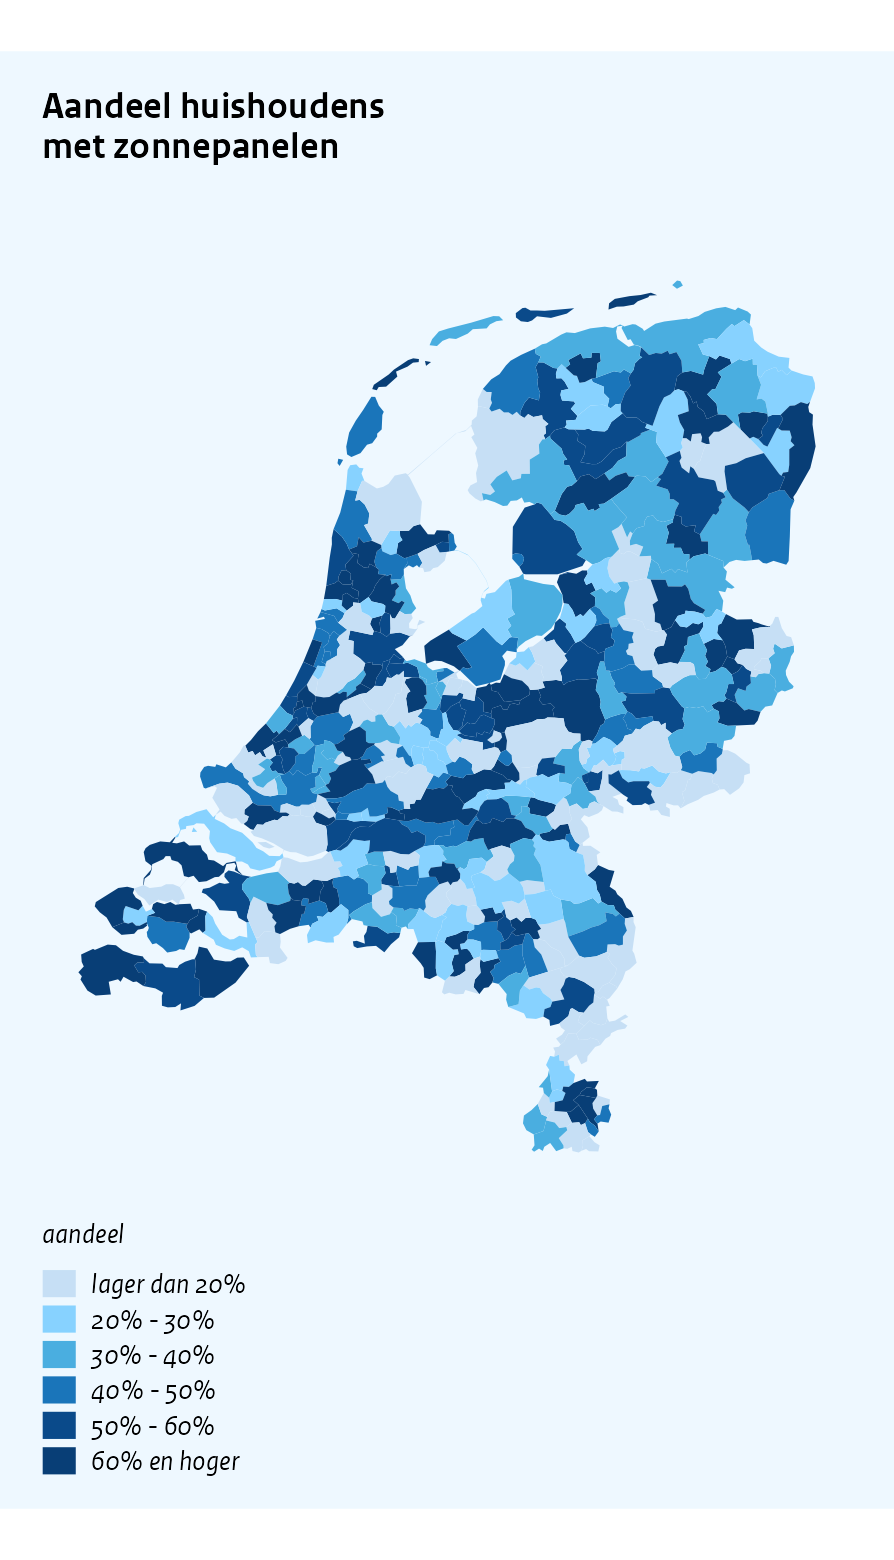
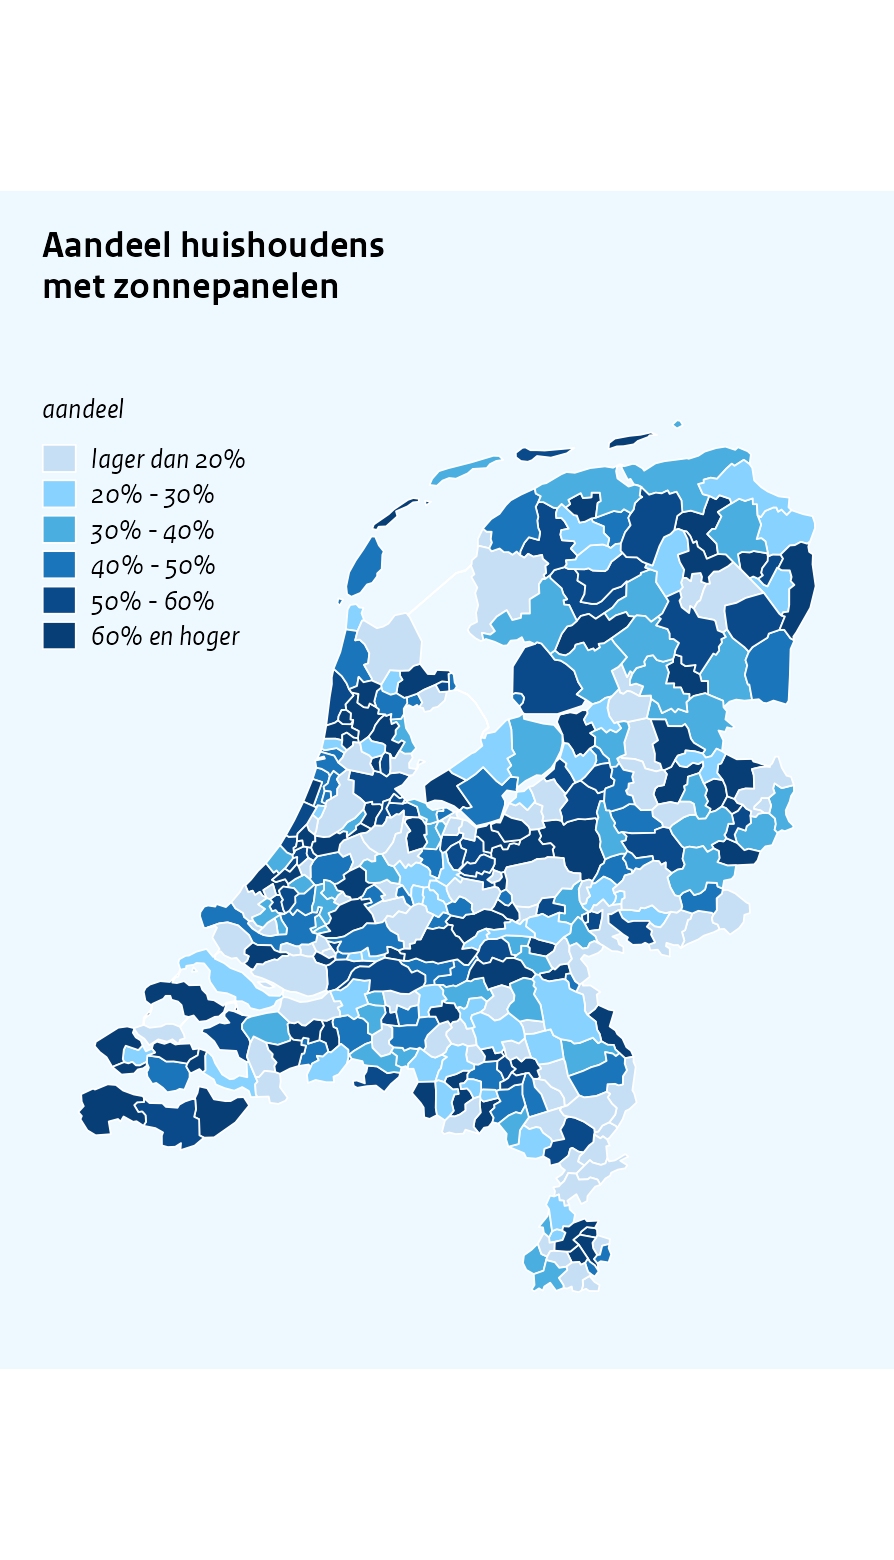
Map borders: white seams by default; legend top-left inside the panel
Two fixes to cpb_map():

1. Visible region borders. The background-blue seam was too low
   contrast to read as a border on saturated fills (province maps
   looked border-less). Borders now default to white -- the classed-
   map convention in CPB publications -- which separates regions
   cleanly on both the blues ramp and the discrete pink/red fills.
   Pass border_colour = cpb_tokens()$bg for the old near-seamless look.

2. Legend placement. cpb_map() now defaults to legend = "topleft",
   placing the legend inside the panel at top-left -- the empty North
   Sea corner of the Netherlands -- as a vertical block (a vertical
   colourbar for continuous values). legend = "bottom" falls back to
   the flush bottom-left theme legend; "none" hides it.

Maps vignette + smoke figures 22/25 updated; the province example
carries a two-line title. 398 tests pass (map tests updated for the
white/top-left defaults), 25/25 smoke figures render, doc/ regenerated
clean, R CMD check clean.

Claude-Session: https://claude.ai/code/session_01KyuF92FaLCz2M7MYNSrMyp

diff --git a/doc/maps.md b/doc/maps.md
@@ -10,9 +10,9 @@ set.seed(42)
 
 `cpb_map()` draws a value per Dutch municipality, COROP region or
 province on bundled generalised CBS/Kadaster boundaries (2025, via
-cartomap), so no geo packages or downloads are needed. Borders are
-hairlines in the background colour, so regions read as tiles separated
-by light-blue seams.
+cartomap), so no geo packages or downloads are needed. Regions are
+separated by thin white seams, and the legend sits inside the panel at
+top-left – in the empty North Sea corner of the country.
 
 # Classed maps
 
@@ -35,8 +35,6 @@ cpb_map(gemeenten, region = code, value = klasse,
   palette = "blues",
   title   = "Aandeel huishoudens\nmet zonnepanelen",
   filllab = "aandeel")
-#> Warning in ggplot2::geom_polygon(colour = border_colour, linewidth =
-#> border_linewidth, : Ignoring empty aesthetic: `colour`.
 ```
 
 <img src="maps_files/figure-gfm/map-classed-1.png" width="350px" />
@@ -59,9 +57,9 @@ just maps – use it for classed bars too.
 # Continuous maps
 
 For a raw numeric value, `cpb_map()` fills with the CPB sequential
-gradient and a compact horizontal colourbar. As elsewhere the unit
-caption goes in `subtitle`; there is no value axis, so `ylab` does not
-apply here:
+gradient and a compact colourbar (vertical, top-left, alongside the
+map). As elsewhere the unit caption goes in `subtitle`; there is no
+value axis, so `ylab` does not apply here:
 
 ``` r
 gemeenten_ct <- tibble(code = unique(cpb_nl_geo("gemeente")$code)) |>
@@ -70,8 +68,6 @@ gemeenten_ct <- tibble(code = unique(cpb_nl_geo("gemeente")$code)) |>
 cpb_map(gemeenten_ct, region = code, value = index,
   title    = "Voorbeeldindex per gemeente",
   subtitle = "index (Nederland = 100)")
-#> Warning in ggplot2::geom_polygon(colour = border_colour, linewidth =
-#> border_linewidth, : Ignoring empty aesthetic: `colour`.
 ```
 
 <img src="maps_files/figure-gfm/map-gemeente-1.png" width="350px" />
@@ -90,21 +86,20 @@ provincies <- tibble(naam = unique(cpb_nl_geo("provincie")$name)) |>
   ))
 
 cpb_map(provincies, region = naam, value = klasse, level = "provincie",
-  index = c(5, 6),
-  title = "Groei ten opzichte van het landelijk gemiddelde")
-#> Warning in ggplot2::geom_polygon(colour = border_colour, linewidth =
-#> border_linewidth, : Ignoring empty aesthetic: `colour`.
+  index = c(2, 6),
+  title = "Groei ten opzichte van het\nlandelijk gemiddelde")
 ```
 
 <img src="maps_files/figure-gfm/map-provincie-1.png" width="350px" />
 
 # Styling and raw boundaries
 
-The border seams are controlled with `border_colour` (default: the CPB
-background colour – a deliberate deviation from the legacy plotter’s
-outlined shapes) and `border_linewidth` (default `0.1`, the house
-hairline). `reverse` flips the sequential gradient and `na_fill`
-overrides the missing-value colour.
+The border seams are controlled with `border_colour` (default `"white"`;
+pass `cpb_tokens()$bg` for near-seamless regions) and `border_linewidth`
+(default `0.2`). The legend defaults to `legend = "topleft"` inside the
+panel; pass `legend = "bottom"` for the flush bottom-left legend of the
+other wrappers, or `legend = "none"`. `reverse` flips the sequential
+gradient and `na_fill` overrides the missing-value colour.
 
 For anything the wrapper does not cover, the raw boundary tables are
 available through `cpb_nl_geo(level)`: one row per polygon vertex with